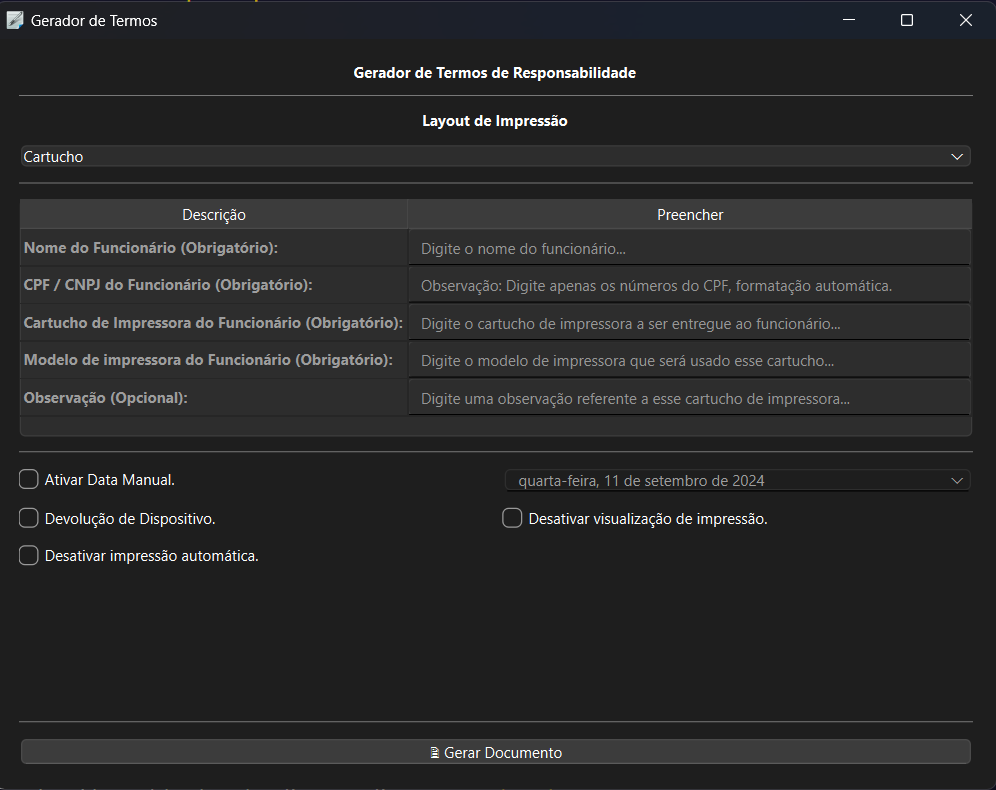
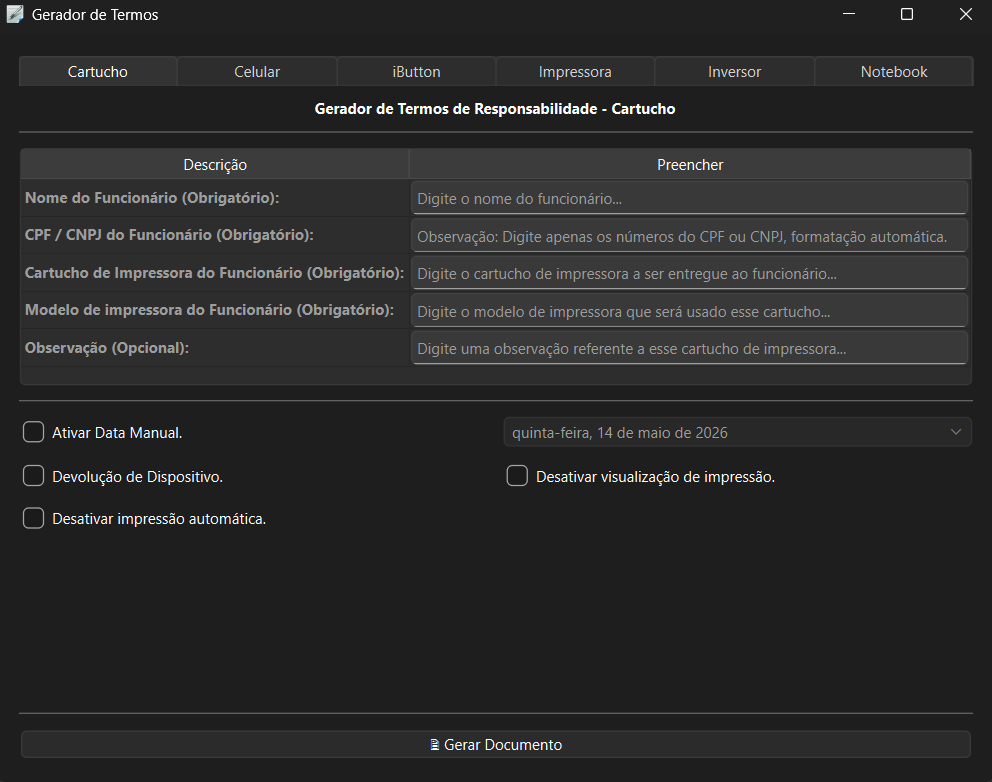
switch from ComboBox to Tab Bar.

diff --git a/src/doc_generator_gui/views/document_generator_view.py b/src/doc_generator_gui/views/document_generator_view.py
@@ -29,9 +29,9 @@ class DocumentGeneratorView(QtWidgets.QWidget):
 
         locale.setlocale(locale.LC_ALL, "")
 
-        self.layoutVM = LayoutViewModel(LayoutJsonService("data/layouts.json"))
-        self.inputVM = InputViewModel(CompanyJsonService("data/company.json"))
         self.documentVM = DocumentViewModel()
+        self.inputVM = InputViewModel(CompanyJsonService("data/company.json"))
+        self.layoutVM = LayoutViewModel(LayoutJsonService("data/layouts.json"))
 
         self.htmlTemplateService = HTMLTemplateService(self.documentVM.documentContext)
         self.pdfService = PDFService(self.documentVM.documentContext)
@@ -40,8 +40,8 @@ class DocumentGeneratorView(QtWidgets.QWidget):
         self.createWidgets(parent)
         self.setGridConfiguration()
 
-        # start with a loaded layout
-        self.tableDocument.setTableLayout(self.layoutCombobox.currentText())
+        # start with a tab opened
+        self.switchLayoutTab(0)
 
     def createWidgets(self, controller):
         """
@@ -50,6 +50,11 @@ class DocumentGeneratorView(QtWidgets.QWidget):
         to show another page/frame widget.
         """
 
+        # Tabs - layout
+        self.tabs = QtWidgets.QTabBar(self)
+        for layout in self.layoutVM.getAllLayouts().keys():
+            self.tabs.addTab(layout)
+        self.tabs.tabBarClicked.connect(self.switchLayoutTab)
         # Label - Title
         self.labelTitle = QtWidgets.QLabel(
             self, text="<b>Gerador de Termos de Responsabilidade</b>"
@@ -59,26 +64,9 @@ class DocumentGeneratorView(QtWidgets.QWidget):
         self.separatorTitle.setLineWidth(1)
         self.separatorTitle.setFrameShape(QtWidgets.QFrame.HLine)
         self.separatorTitle.setFrameShadow(QtWidgets.QFrame.Sunken)
-        # Label - Print Type
-        self.labelLayoutCombobox = QtWidgets.QLabel(
-            self, text="<b>Layout de Impressão</b>"
-        )
-        # ComboBox - Print Type
-        self.layoutCombobox = QtWidgets.QComboBox(self)
-        for printType in self.layoutVM.getAllLayouts().keys():
-            self.layoutCombobox.addItem(printType)
-        # separator - ComboBox
-        self.separatorCombobox = QtWidgets.QFrame(self)
-        self.separatorCombobox.setLineWidth(1)
-        self.separatorCombobox.setFrameShape(QtWidgets.QFrame.HLine)
-        self.separatorCombobox.setFrameShadow(QtWidgets.QFrame.Sunken)
         # Table - Layouts Data
         self.tableDocument = LayoutTableWidget(
             self, self.documentVM, self.inputVM, self.layoutVM
-        )
-        # set table layout to combobox current selection
-        self.layoutCombobox.currentTextChanged.connect(
-            self.tableDocument.setTableLayout
         )
         # separator - CheckBox
         self.separatorCheckbox = QtWidgets.QFrame(self)
@@ -136,49 +124,45 @@ class DocumentGeneratorView(QtWidgets.QWidget):
 
         # Grid Layout
         widgetGridLayout = QtWidgets.QGridLayout(self)
+        # Tabs - layout
+        widgetGridLayout.addWidget(self.tabs, 0, 0, 1, 2)
         # Label - Título
         widgetGridLayout.addWidget(
-            self.labelTitle, 0, 0, 1, 2, QtGui.Qt.AlignmentFlag.AlignCenter
+            self.labelTitle, 1, 0, 1, 2, QtGui.Qt.AlignmentFlag.AlignCenter
         )
         # separator - Título
-        widgetGridLayout.addWidget(self.separatorTitle, 1, 0, 1, 2)
-        # Label - Tipo de impressão
-        widgetGridLayout.addWidget(
-            self.labelLayoutCombobox,
-            2,
-            0,
-            1,
-            2,
-            QtGui.Qt.AlignmentFlag.AlignCenter,
-        )
-        # ComboBox - Tipo de impressão
-        widgetGridLayout.addWidget(self.layoutCombobox, 3, 0, 1, 2)
-        # separator - Tipo de impressão ComboBox
-        widgetGridLayout.addWidget(self.separatorCombobox, 4, 0, 1, 2)
+        widgetGridLayout.addWidget(self.separatorTitle, 2, 0, 1, 2)
         # Table - Data Layouts
-        widgetGridLayout.addWidget(self.tableDocument, 5, 0, 6, 2)
+        widgetGridLayout.addWidget(self.tableDocument, 3, 0, 6, 2)
         # separator - CheckBox
-        widgetGridLayout.addWidget(self.separatorCheckbox, 11, 0, 1, 2)
+        widgetGridLayout.addWidget(self.separatorCheckbox, 9, 0, 1, 2)
         # CheckBox - Ativar Data Manual
-        widgetGridLayout.addWidget(self.isDateSelectable, 12, 0, 1, 1)
+        widgetGridLayout.addWidget(self.isDateSelectable, 10, 0, 1, 1)
         # DateTimeEdit - Data Manual
-        widgetGridLayout.addWidget(self.datePicker, 12, 1, 1, 1)
+        widgetGridLayout.addWidget(self.datePicker, 10, 1, 1, 1)
         # CheckBox - Ativar Devolução
-        widgetGridLayout.addWidget(self.isDeviceReturn, 13, 0, 1, 1)
+        widgetGridLayout.addWidget(self.isDeviceReturn, 11, 0, 1, 1)
         # CheckBox - Desativar Visualização de Impressão
-        widgetGridLayout.addWidget(self.disablePrinterPreview, 13, 1, 1, 1)
+        widgetGridLayout.addWidget(self.disablePrinterPreview, 11, 1, 1, 1)
         # CheckBox - Desativar Impressão
-        widgetGridLayout.addWidget(self.disablePrinter, 14, 0, 1, 1)
+        widgetGridLayout.addWidget(self.disablePrinter, 12, 0, 1, 1)
         # separator - Buttons
-        widgetGridLayout.addWidget(self.separatorButtons, 16, 0, 1, 2)
+        widgetGridLayout.addWidget(self.separatorButtons, 15, 0, 1, 2)
         # PushButton - Gerar Documento
-        widgetGridLayout.addWidget(self.buttonGenDoc, 17, 0, 1, 2)
+        widgetGridLayout.addWidget(self.buttonGenDoc, 16, 0, 1, 2)
         # space between widgets
         widgetGridLayout.setSpacing(10)
         # stretch a specific row
-        widgetGridLayout.setRowStretch(15, 1)
+        widgetGridLayout.setRowStretch(13, 1)
         # set this widget layout to the grid layout
         self.setLayout(widgetGridLayout)
+
+    def switchLayoutTab(self, index):
+        layout = self.tabs.tabText(index)
+        self.tableDocument.setTableLayout(layout)
+        self.labelTitle.setText(
+            f"<b>Gerador de Termos de Responsabilidade - {layout}</b>"
+        )
 
     def enableDatePicker(self):
         isDateSelectable: bool = True if self.isDateSelectable.isChecked() else False

diff --git a/src/doc_generator_gui/views/main_view.py b/src/doc_generator_gui/views/main_view.py
@@ -16,7 +16,7 @@ class MainView(QtWidgets.QMainWindow):
         height: int = None,
         icon: str = None,
         *args,
-        **kwargs
+        **kwargs,
     ):
         super().__init__(*args, **kwargs)
 
@@ -27,38 +27,14 @@ class MainView(QtWidgets.QMainWindow):
         if icon is not None:
             self.setWindowIcon(QtGui.QIcon(icon))
 
-        self.stack = QtWidgets.QStackedWidget(self)
+        self.documentGenerator = DocumentGeneratorView(self)
 
         self.container = QtWidgets.QWidget(self)
         self.container.setGeometry(0, 0, width, height)
         self.containerGrid = QtWidgets.QGridLayout(self.container)
-        self.containerGrid.addWidget(self.stack)
+        self.containerGrid.addWidget(self.documentGenerator)
         self.container.setLayout(self.containerGrid)
         self.setCentralWidget(self.container)
-
-        self.pages = {}
-
-        self.initPages()
-
-        self.showPage("DocumentGeneratorView")
-
-    def initPages(self):
-        """
-        Initialization for our Frames/Pages, we add each of our pages
-        to our dictionary with the correspondent index value.
-        """
-
-        # Application Home Page
-        self.stack.addWidget(DocumentGeneratorView(self))
-        self.pages["DocumentGeneratorView"] = 0
-
-    def showPage(self, page: str):
-        """
-        Switch to a specific page/frame based on the
-        dictionary key.
-        """
-
-        self.stack.setCurrentIndex(self.pages[page])
 
     def centerWindow(self, width: int = 300, height: int = 300):
         """

diff --git a/src/doc_generator_gui/viewmodels/document_viewmodel.py b/src/doc_generator_gui/viewmodels/document_viewmodel.py
@@ -30,6 +30,9 @@ class DocumentViewModel:
                 "footer": footerFile.read(),
             }
 
+    def getPrintType(self) -> str:
+        return self.documentContext.printType
+
     def setPrintType(self, printType: str) -> str:
         self.documentContext.printType = printType
 